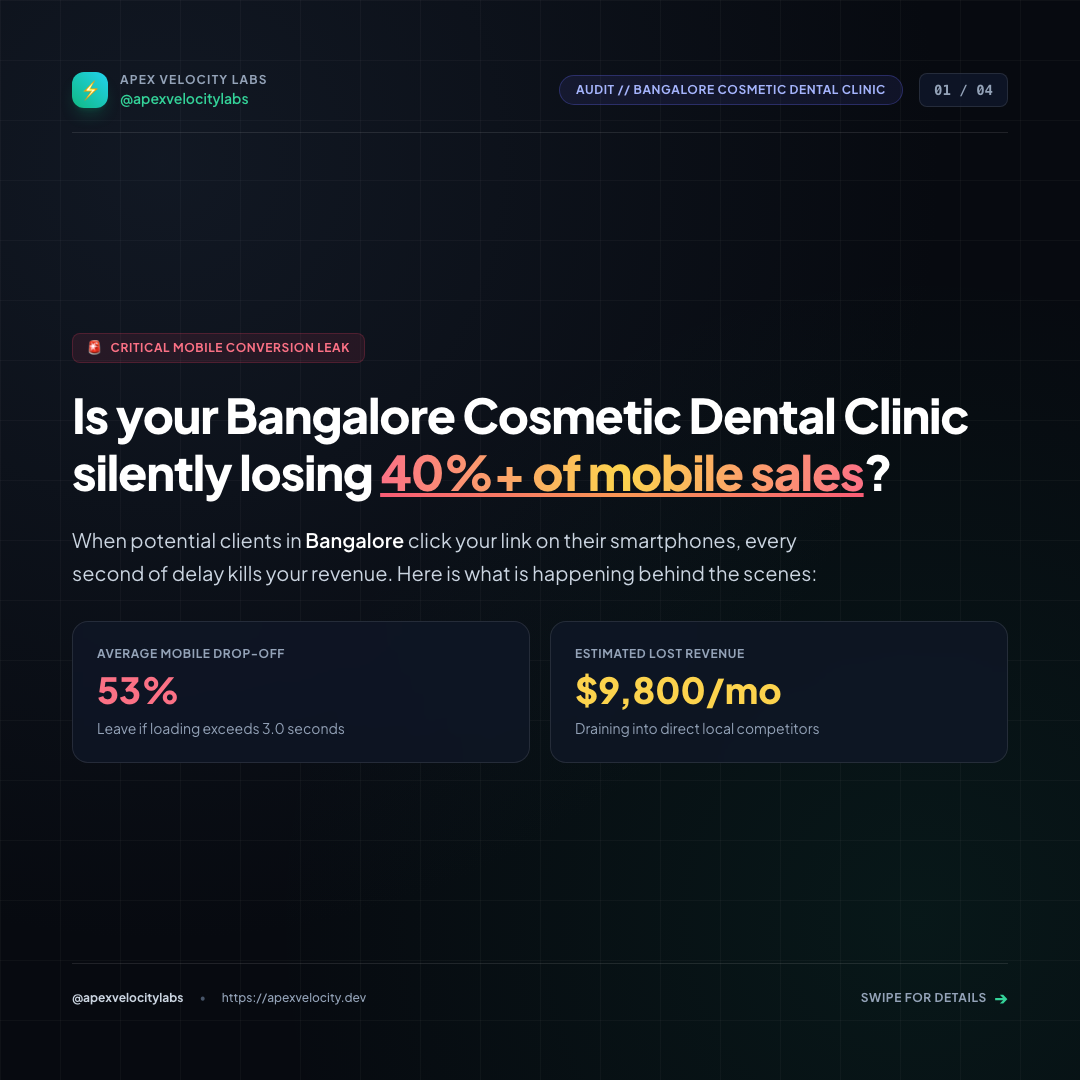
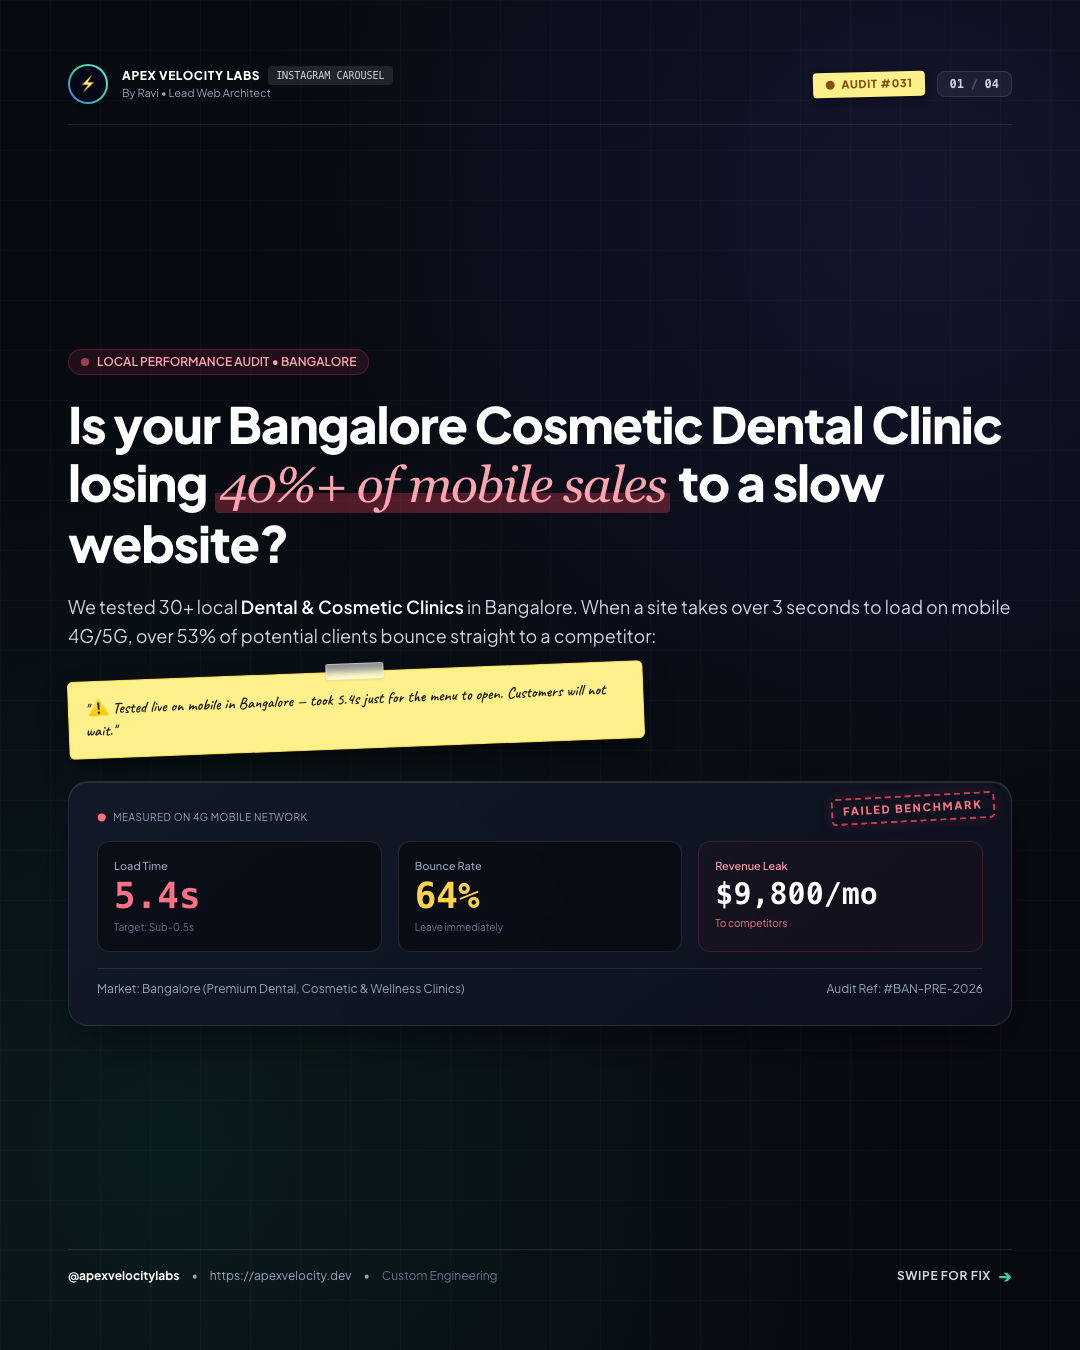
docs: document platform presets and multi-platform rendering commands

diff --git a/README.md b/README.md
@@ -153,13 +153,29 @@ python -m src.generator_pseo --count 3
 python -m src.generator_pseo --city bangalore --niche dental-clinics --angle automation
 ```
 
-### 3. Render High-Resolution Visual Carousels Only
+### 3. Render High-Resolution Visual Carousels (Multi-Platform Sizing)
+
+Choose your target social platform format:
+- **`instagram`**: $1080 \times 1350\text{ px}$ (4:5 Portrait — captures 25% more screen real estate on mobile feeds)
+- **`linkedin`**: $1080 \times 1350\text{ px}$ (4:5 Portrait — optimal for swipeable PDF document carousels)
+- **`twitter`**: $1200 \times 675\text{ px}$ (16:9 Landscape — fits Twitter feed previews without cropping)
+- **`square`**: $1080 \times 1080\text{ px}$ (1:1 Universal)
+- **`all`**: Automatically generates multi-format sets for Instagram, Twitter, and Square simultaneously!
 
 ```bash
-# Render 4-slide 1080x1080 carousel PNGs
-python -m src.generator_graphics --type carousel --city goa --niche boutique-hotels
+# Render 4:5 Portrait Carousels for Instagram (Default)
+python -m src.generator_graphics --type carousel --city goa --niche restaurants --platform instagram
 
-# Render a Code Snippet / Tech Tip graphic
+# Render 16:9 Landscape Carousels for Twitter / X Threads
+python -m src.generator_graphics --type carousel --city mumbai --niche fashion-boutiques --platform twitter
+
+# Render 4:5 Document Carousels for LinkedIn
+python -m src.generator_graphics --type carousel --city bangalore --niche dental-clinics --platform linkedin
+
+# Render Multi-Platform Sets simultaneously (Instagram 4:5, Twitter 16:9, and Square 1:1)
+python -m src.generator_graphics --type carousel --city dubai --niche real-estate --platform all
+
+# Render a Code Snippet / Tech Tip graphic (Pillar 3)
 python -m src.generator_graphics --type tech_tip
 ```
 
